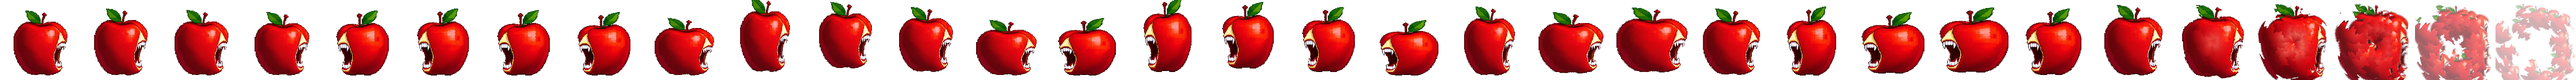
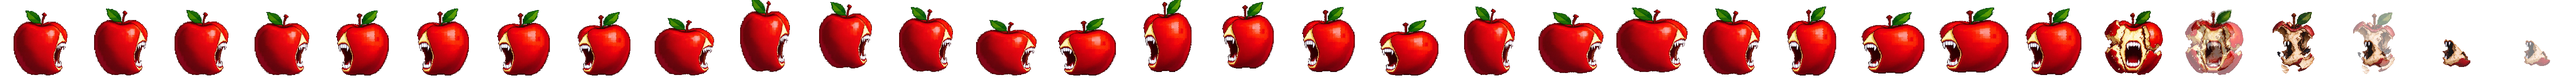
死亡帧改用三张碎裂美术图 + 交叉溶解衔接
- 新增 tools/applemon/death_images.py：三张 1536×1536 RGBA 图（已带透明底）
- 统一以第一张的内容高度（1365px）算缩放，后两张残片自然显得越来越小
- 3 张关键帧之间插入溶解帧 → 6 帧：1 / 1+2 / 2 / 2+3 / 3 / 3淡出
- 溶解按 alpha 加权，避免半透明边缘发灰
- 最后两帧加轻微上移 + 缩小 + 降透明，表现碎屑飞散
- 程序化切割那套（explosion.py）保留但不再参与死亡帧

Changed region(s): [[0.8125, 0.0625, 1.0, 1.0]]

diff --git a/tools/applemon/death_images.py b/tools/applemon/death_images.py
@@ -1,0 +1,137 @@
+"""
+用三张「苹果碎裂」美术图生成 6 帧死亡动画。
+
+三张图是递进的（裂开 → 掏空 → 只剩残片），但只有 3 帧不够顺，
+所以在关键帧之间插入交叉溶解帧，让碎裂过程连起来。
+
+缩放基准统一取第一张图的内容高度：这样后面两张残片自然显得越来越小，
+不会因为各自填满格子而看起来一样大。
+"""
+
+import os
+import subprocess
+
+FFMPEG = r"C:\Users\leader\.workbuddy-ai\binaries\node\workspace\node_modules\@ffmpeg-installer\win32-x64\ffmpeg.exe"
+DIR = r"D:\h\my-game\tools\applemon"
+
+SOURCES = [
+    r"C:\Users\leader\Downloads\生成苹果碎裂图.png",
+    r"C:\Users\leader\Downloads\生成苹果碎裂图 (1).png",
+    r"C:\Users\leader\Downloads\生成苹果碎裂图 (2).png",
+]
+
+W = H = 1536
+
+
+def load_rgba(path):
+    p = subprocess.run([FFMPEG, "-loglevel", "error", "-i", path,
+                        "-f", "rawvideo", "-pix_fmt", "rgba", "-"],
+                       capture_output=True, check=True)
+    d = bytearray(p.stdout)
+    assert len(d) == W * H * 4, (path, len(d))
+    return d
+
+
+def bbox(data, thr=8):
+    minx, miny, maxx, maxy = W, H, -1, -1
+    for y in range(H):
+        row = y * W
+        for x in range(W):
+            if data[(row + x) * 4 + 3] > thr:
+                if x < minx: minx = x
+                if x > maxx: maxx = x
+                if y < miny: miny = y
+                if y > maxy: maxy = y
+    return minx, miny, maxx, maxy
+
+
+def render_cell(img, cell, cx_src, by_src, scale, dx=0.0, dy=0.0, alpha=1.0):
+    """把整张图按统一基准映射进 cell（反向映射 + 双线性采样）。"""
+    out = bytearray(cell * cell * 4)
+    inv = 1.0 / scale
+    for oy in range(cell):
+        for ox in range(cell):
+            ix = cx_src + (ox - cell * 0.5 - dx) * inv
+            iy = by_src - (150.0 + dy - oy) * inv
+            x0, y0 = int(ix), int(iy)
+            if x0 < -1 or y0 < -1 or x0 > W or y0 > H:
+                continue
+            fx, fy = ix - x0, iy - y0
+            ar = ag = ab = aa = 0.0
+            for sy_ in (0, 1):
+                yy = y0 + sy_
+                if yy < 0 or yy >= H:
+                    continue
+                wy = fy if sy_ else 1.0 - fy
+                for sx_ in (0, 1):
+                    xx = x0 + sx_
+                    if xx < 0 or xx >= W:
+                        continue
+                    wx = fx if sx_ else 1.0 - fx
+                    w = wx * wy
+                    if w <= 0:
+                        continue
+                    i = (yy * W + xx) * 4
+                    a = img[i + 3]
+                    ar += img[i] * w * a
+                    ag += img[i + 1] * w * a
+                    ab += img[i + 2] * w * a
+                    aa += a * w
+            if aa <= 0.5:
+                continue
+            i = (oy * cell + ox) * 4
+            out[i] = int(ar / aa)
+            out[i + 1] = int(ag / aa)
+            out[i + 2] = int(ab / aa)
+            out[i + 3] = int(min(255, aa * alpha))
+    return out
+
+
+def blend(a, b, t):
+    """两帧交叉溶解（按 alpha 加权，避免边缘发灰）。"""
+    n = len(a) // 4
+    out = bytearray(len(a))
+    for i in range(n):
+        j = i * 4
+        a1, a2 = a[j + 3], b[j + 3]
+        w1, w2 = a1 * (1.0 - t), a2 * t
+        s = w1 + w2
+        if s <= 0.5:
+            continue
+        out[j] = int((a[j] * w1 + b[j] * w2) / s)
+        out[j + 1] = int((a[j + 1] * w1 + b[j + 1] * w2) / s)
+        out[j + 2] = int((a[j + 2] * w1 + b[j + 2] * w2) / s)
+        out[j + 3] = int(min(255, s))
+    return out
+
+
+def build_death_frames(cell=160, content_h=130):
+    imgs = [load_rgba(p) for p in SOURCES]
+    boxes = [bbox(im) for im in imgs]
+    for p, b in zip(SOURCES, boxes):
+        print(f"  {os.path.basename(p)} 内容框 {b}")
+
+    # 统一基准：第一张的内容高度撑满 content_h
+    b1 = boxes[0]
+    scale = content_h / (b1[3] - b1[1] + 1)
+    cx = (b1[0] + b1[2]) * 0.5
+    by = b1[3]
+    print(f"  基准 scale={scale:.4f}  cx={cx:.0f}  by={by}")
+
+    def R(idx, dx=0.0, dy=0.0, alpha=1.0, s_mul=1.0):
+        return render_cell(imgs[idx], cell, cx, by, scale * s_mul, dx, dy, alpha)
+
+    f1 = R(0)
+    f2 = R(1)
+    f3 = R(2)
+
+    # 6 帧：三张关键帧 + 中间溶解帧，最后淡出
+    frames = [
+        f1,
+        blend(f1, R(1, dy=-2, s_mul=1.03), 0.45),
+        R(1, dy=-1),
+        blend(f2, R(2, dy=-2, s_mul=0.98), 0.5),
+        R(2, dy=-1),
+        R(2, dy=-4, s_mul=0.94, alpha=0.55),
+    ]
+    return frames

diff --git a/tools/applemon/make_sheet.py b/tools/applemon/make_sheet.py
@@ -19,6 +19,7 @@ import subprocess
 import sys
 sys.path.insert(0, os.path.dirname(os.path.abspath(__file__)))
 from explosion import render_explosion
+from death_images import build_death_frames
 
 FFMPEG = r"C:\Users\leader\.workbuddy-ai\binaries\node\workspace\node_modules\@ffmpeg-installer\win32-x64\ffmpeg.exe"
 D = r"D:\h\my-game\tools\applemon"
@@ -208,29 +209,12 @@ for idx, (view, sx, sy, dx, dy, al, ex, sk) in enumerate(frames):
     print(f"  帧 {idx:2d}  {view:6s} sx={sx:.2f} sy={sy:.2f} dy={dy:+d} "
           f"alpha={al:.2f} explode={ex:.0f}")
 
-# 死亡段
+# 死亡段：用三张「苹果碎裂」美术图 + 交叉溶解，不再程序化切割
 base_idx = len(frames)
-for k, (cs, dist, shrink, rot, alpha, flash, blur) in enumerate(DEATH):
-    view = "right"
-    box = BOXES[view]
-    cw = box[2] - box[0] + 1
-    ch = box[3] - box[1] + 1
-    base = CONTENT_H * cs / ch
-    kx = base
-    ky = base
-    src_cx = (box[0] + box[2]) * 0.5
-    src_cy = (box[1] + box[3]) * 0.5
-    src = SOURCES[view]
-
-    def smp(x, y, _src=src, _box=box):
-        return sample(_src, _box, x, y)
-
-    cell = render_explosion(smp, box, CELL, CONTENT_H, FOOT,
-                            dist, shrink, rot, alpha, flash, blur,
-                            src_cx, src_cy, kx, ky, CELL * 0.5, FOOT)
+death_frames = build_death_frames(CELL, CONTENT_H)
+for k, cell in enumerate(death_frames):
     put_cell(base_idx + k, cell)
-    print(f"  帧 {base_idx + k:2d}  死亡 cs={cs:.2f} 飞散={dist:2d} "
-          f"碎缩={shrink:.2f} 自转={rot:2d}° α={alpha:.2f} 闪光={flash:.2f}")
+    print(f"  帧 {base_idx + k:2d}  死亡（美术图第 {min(k // 2, 2) + 1} 张）")
 
 raw = os.path.join(D, "sheet.raw")
 open(raw, "wb").write(bytes(sheet))

diff --git a/tools/applemon/preview_death.py b/tools/applemon/preview_death.py
@@ -1,0 +1,41 @@
+"""预览 6 帧死亡动画（深色底，2 倍放大）。"""
+import os
+import pickle
+import subprocess
+
+FFMPEG = r"C:\Users\leader\.workbuddy-ai\binaries\node\workspace\node_modules\@ffmpeg-installer\win32-x64\ffmpeg.exe"
+D = r"D:\h\my-game\tools\applemon"
+CELL = 160
+BG = (40, 40, 44, 255)
+
+frames = pickle.load(open(os.path.join(D, "death_frames.pkl"), "rb"))
+n = len(frames)
+S = 2
+W, H = CELL * S * n, CELL * S
+canvas = bytearray(W * H * 4)
+for i in range(W * H):
+    canvas[i * 4:i * 4 + 4] = bytes(BG)
+
+for idx, cell in enumerate(frames):
+    for y in range(CELL):
+        for x in range(CELL):
+            si = (y * CELL + x) * 4
+            a = cell[si + 3]
+            if a == 0:
+                continue
+            af = a / 255.0
+            for sy_ in range(S):
+                for sx_ in range(S):
+                    px, py = idx * CELL * S + x * S + sx_, y * S + sy_
+                    di = (py * W + px) * 4
+                    for c in range(3):
+                        canvas[di + c] = int(cell[si + c] * af + canvas[di + c] * (1 - af))
+                    canvas[di + 3] = 255
+
+raw = os.path.join(D, "preview_death.raw")
+open(raw, "wb").write(bytes(canvas))
+out = os.path.join(D, "preview_death.png")
+subprocess.run([FFMPEG, "-y", "-loglevel", "error",
+                "-f", "rawvideo", "-pix_fmt", "rgba", "-s", f"{W}x{H}",
+                "-i", raw, "-frames:v", "1", out], check=True)
+print("预览:", out, f"{W}x{H}")
